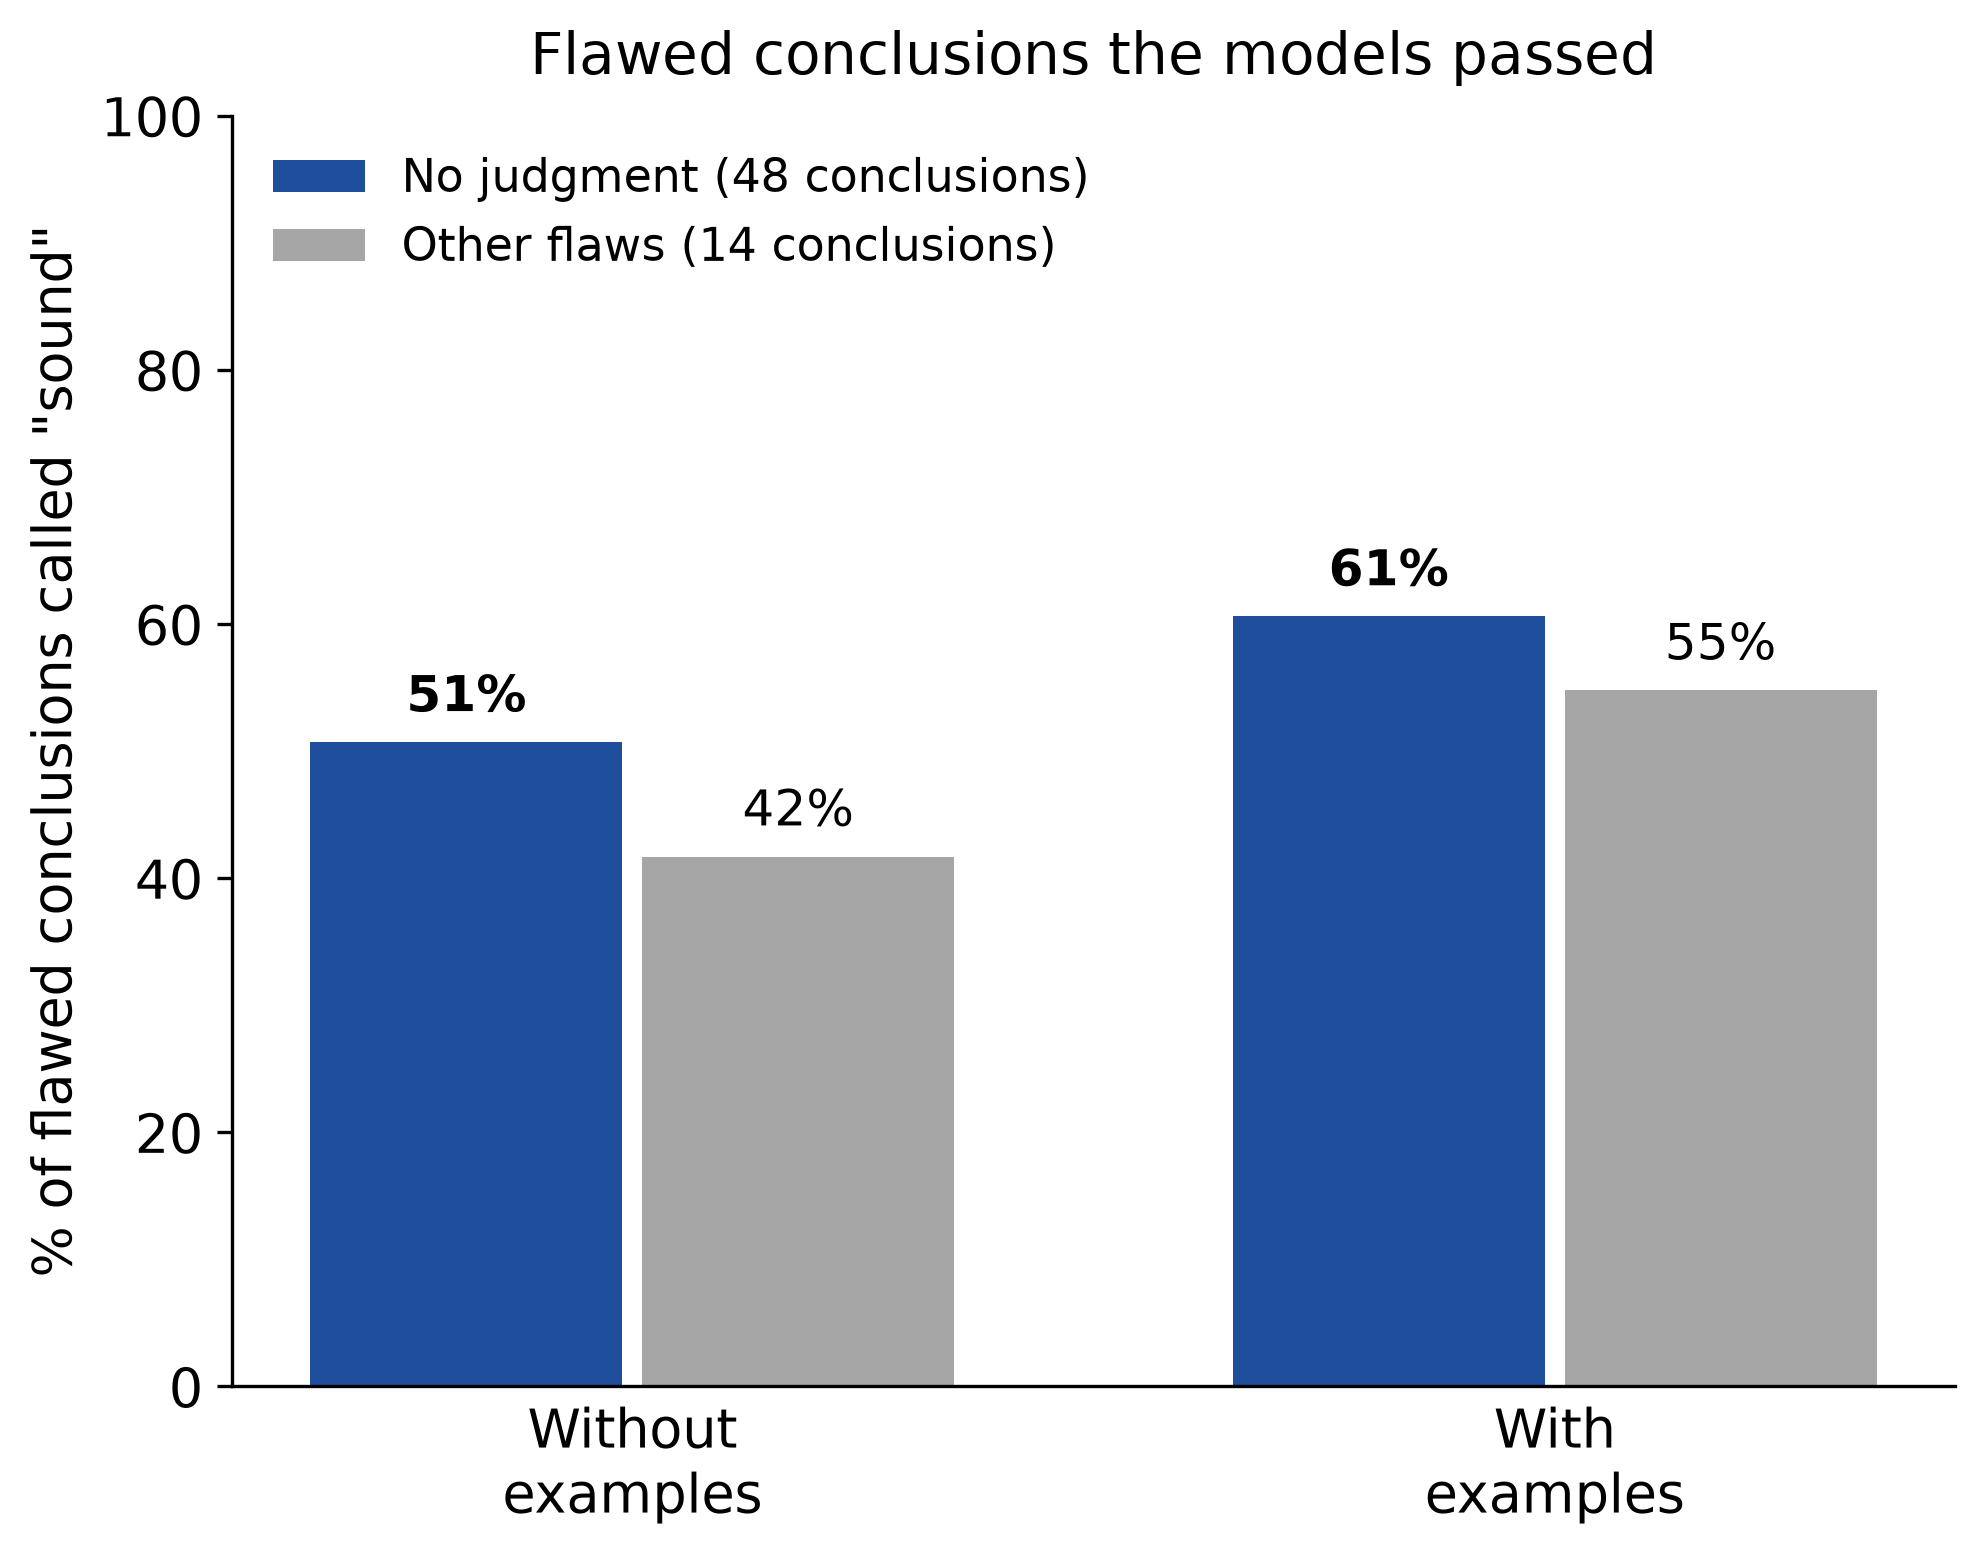
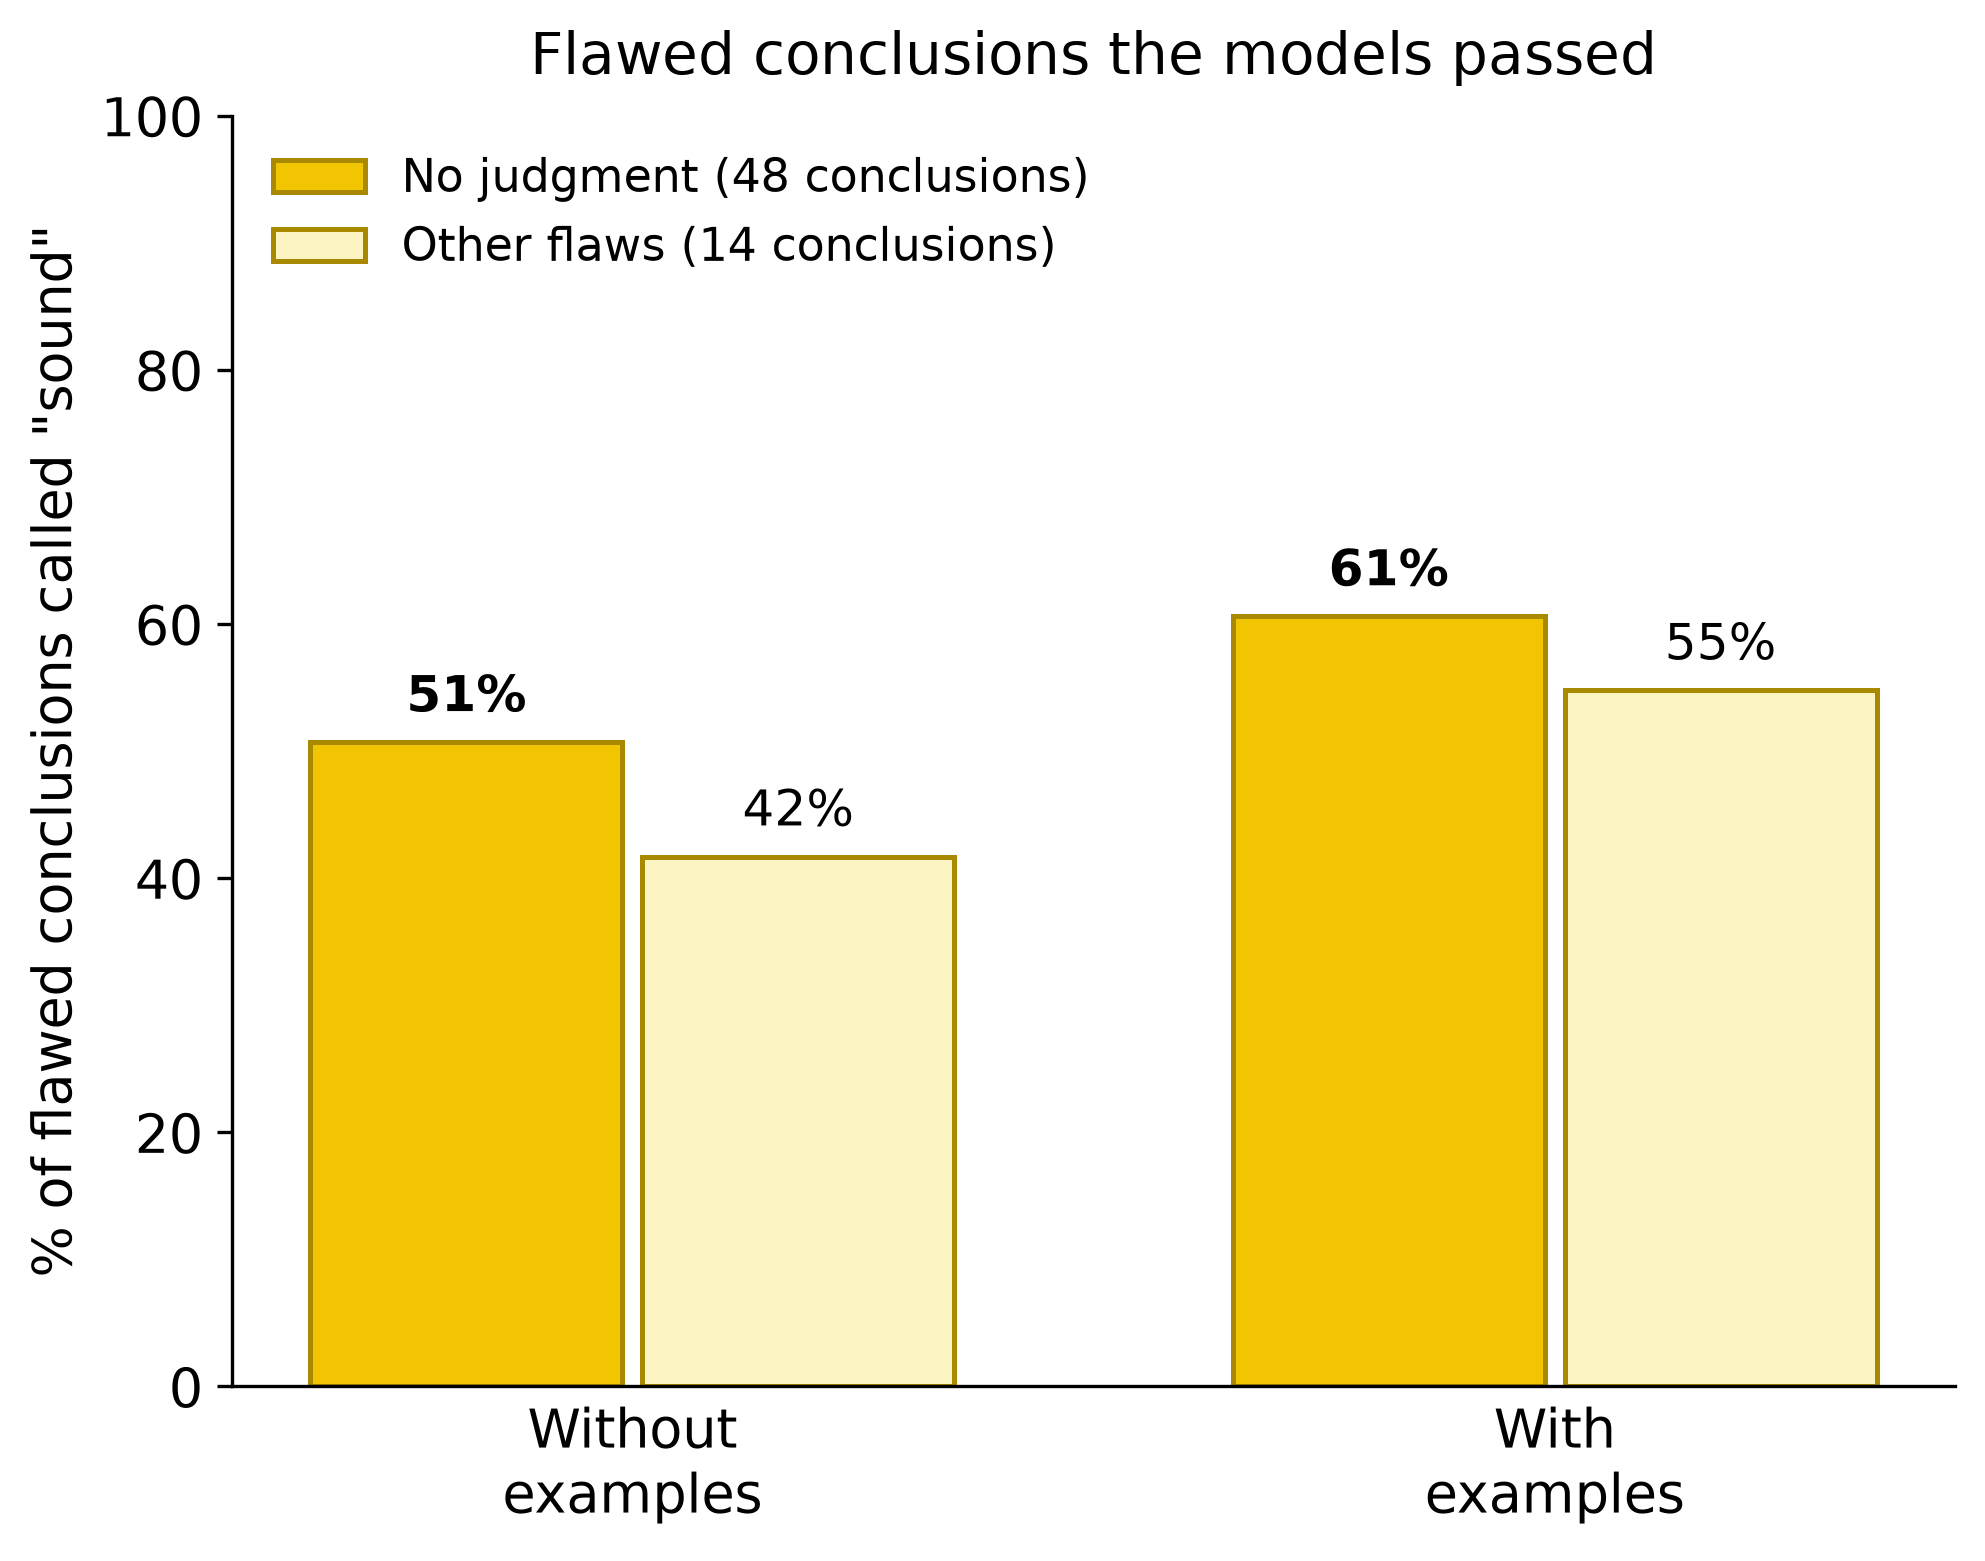
Apply yellow poster palette to slope and missed-judgment charts
Claude-Session: https://claude.ai/code/session_01L4hwcV6Bm6gz8LaXaMsYPv

Changed region(s): [[0.5935, 0.369, 0.9683, 0.8917], [0.1562, 0.4612, 0.4997, 0.8917], [0.1249, 0.0922, 0.1874, 0.1845]]

diff --git a/src/analysis/poster_figures.py b/src/analysis/poster_figures.py
@@ -16,6 +16,10 @@ from pathlib import Path
 from src.analysis.config import (
     ARCHITECTURE_MAP,
     FAMILY_COLORS,
+    POSTER_ACCENT,
+    POSTER_ACCENT_DARK,
+    POSTER_ACCENT_PALE,
+    POSTER_LABEL_COLOR,
     FIGURE_DPI,
     FINDINGS_METRICS_PATH,
     H2_CORRECTED_RESULTS_PATH,
@@ -120,15 +124,15 @@ def make_calibration_slope_chart(data: dict, output_dir: Path = POSTER_FIGURES_D
     # Left: share called sound
     for r in rows:
         ax_s.plot(x, [r["sound_zero"], r["sound_few"]], color=FAMILY_COLORS[r["family"]],
-                  lw=2.2, marker="o", ms=6, ls="-" if r["family"] == "closed" else "--")
+                  lw=2.6, marker="o", ms=7, ls="-" if r["family"] == "closed" else "--")
     label_y = _spread_labels([r["sound_few"] for r in rows], min_gap=4.2)
     for r, y in zip(rows, label_y):
         ax_s.text(1.06, y, f"{r['label']} {r['sound_few']:.0f}%", va="center", fontsize=11,
-                  color=FAMILY_COLORS[r["family"]])
+                  color=POSTER_LABEL_COLOR)
     left_y = _spread_labels([r["sound_zero"] for r in rows], min_gap=4.2)
     for r, y in zip(rows, left_y):
         ax_s.text(-0.06, y, f"{r['sound_zero']:.0f}%", va="center", ha="right", fontsize=11,
-                  color=FAMILY_COLORS[r["family"]])
+                  color=POSTER_LABEL_COLOR)
     ax_s.axhline(data["expert_sound_pct"], color="0.45", lw=1.2, ls=":")
     ax_s.text(1.06, data["expert_sound_pct"] - 1.5, f"Expert: {data['expert_sound_pct']:.0f}%",
               ha="left", va="top", fontsize=11, color="0.35", style="italic")
@@ -214,14 +218,15 @@ def make_missed_judgment_chart(data: dict, output_dir: Path = POSTER_FIGURES_DIR
     output_dir.mkdir(parents=True, exist_ok=True)
     g = data["groups"]
     styles = [
-        ("judgment_absent", f"No judgment ({g['judgment_absent']['n']} conclusions)", FAMILY_COLORS["closed"]),
-        ("other_flaw", f"Other flaws ({g['other_flaw']['n']} conclusions)", "#a6a6a6"),
+        ("judgment_absent", f"No judgment ({g['judgment_absent']['n']} conclusions)", POSTER_ACCENT),
+        ("other_flaw", f"Other flaws ({g['other_flaw']['n']} conclusions)", POSTER_ACCENT_PALE),
     ]
     width = 0.36
     fig, ax = plt.subplots(figsize=(6.8, 5.4))
     for i, (key, label, color) in enumerate(styles):
         xs = [k + (i - 0.5) * width for k in range(2)]
-        bars = ax.bar(xs, g[key]["rates"], width * 0.94, color=color, label=label)
+        bars = ax.bar(xs, g[key]["rates"], width * 0.94, color=color, label=label,
+                      edgecolor=POSTER_ACCENT_DARK, linewidth=1.2)
         for b, v in zip(bars, g[key]["rates"]):
             ax.text(b.get_x() + b.get_width() / 2, v + 1.5, f"{v:.0f}%", ha="center", va="bottom",
                     fontsize=12, fontweight="bold" if key == "judgment_absent" else "normal")

diff --git a/src/analysis/config.py b/src/analysis/config.py
@@ -138,7 +138,13 @@ MODEL_DISPLAY_NAMES: dict[str, str] = {
     "glm_5_2":                   "GLM 5.2",
 }
 
-FAMILY_COLORS: dict[str, str] = {"closed": "#1f4e9c", "open": "#d9822b"}
+# Poster palette: gradations of the accent colour #f2c503 (author, 2026-11-15).
+POSTER_ACCENT: str = "#f2c503"
+POSTER_ACCENT_DARK: str = "#a88900"
+POSTER_ACCENT_PALE: str = "#fdf4c4"
+POSTER_LABEL_COLOR: str = "#262626"   # yellow text is unreadable on white
+
+FAMILY_COLORS: dict[str, str] = {"closed": POSTER_ACCENT_DARK, "open": POSTER_ACCENT}
 
 FINDINGS_SEED: int = 42
 BOOTSTRAP_RESAMPLES: int = 5000
